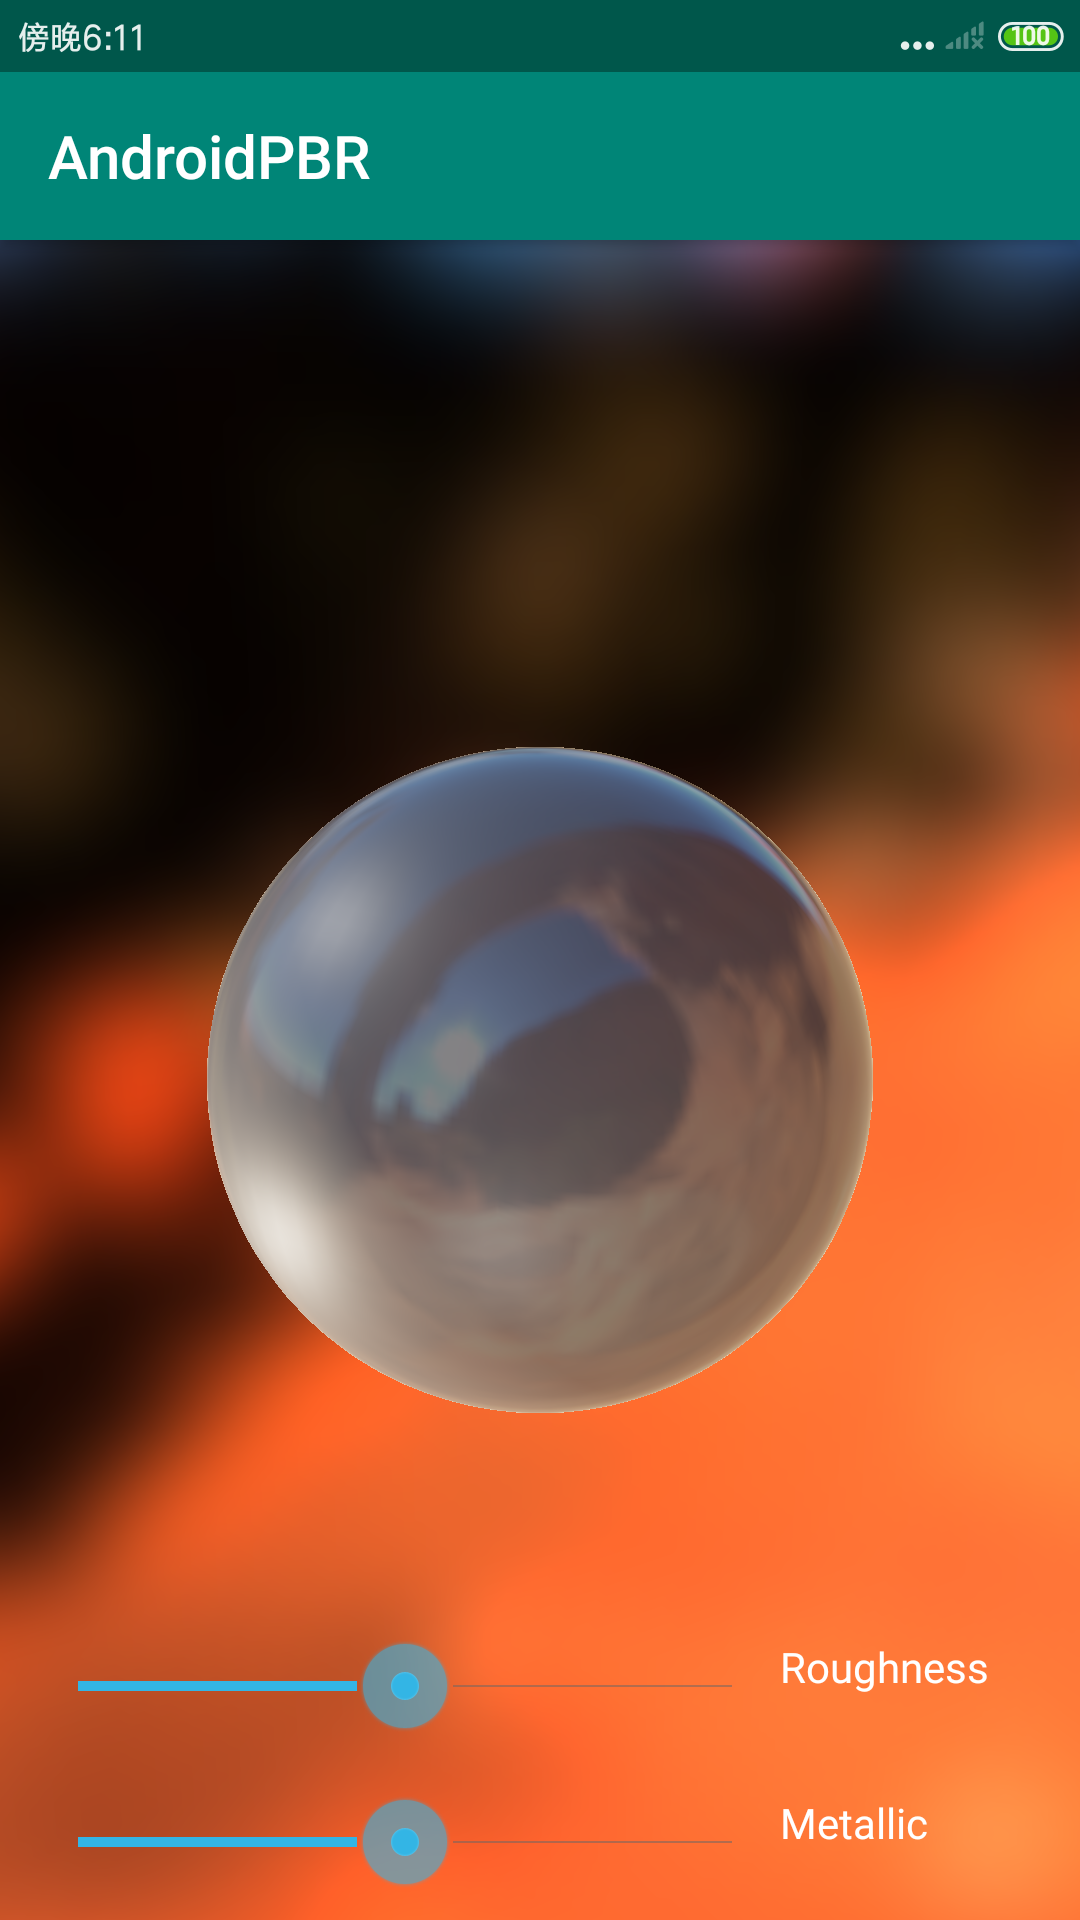
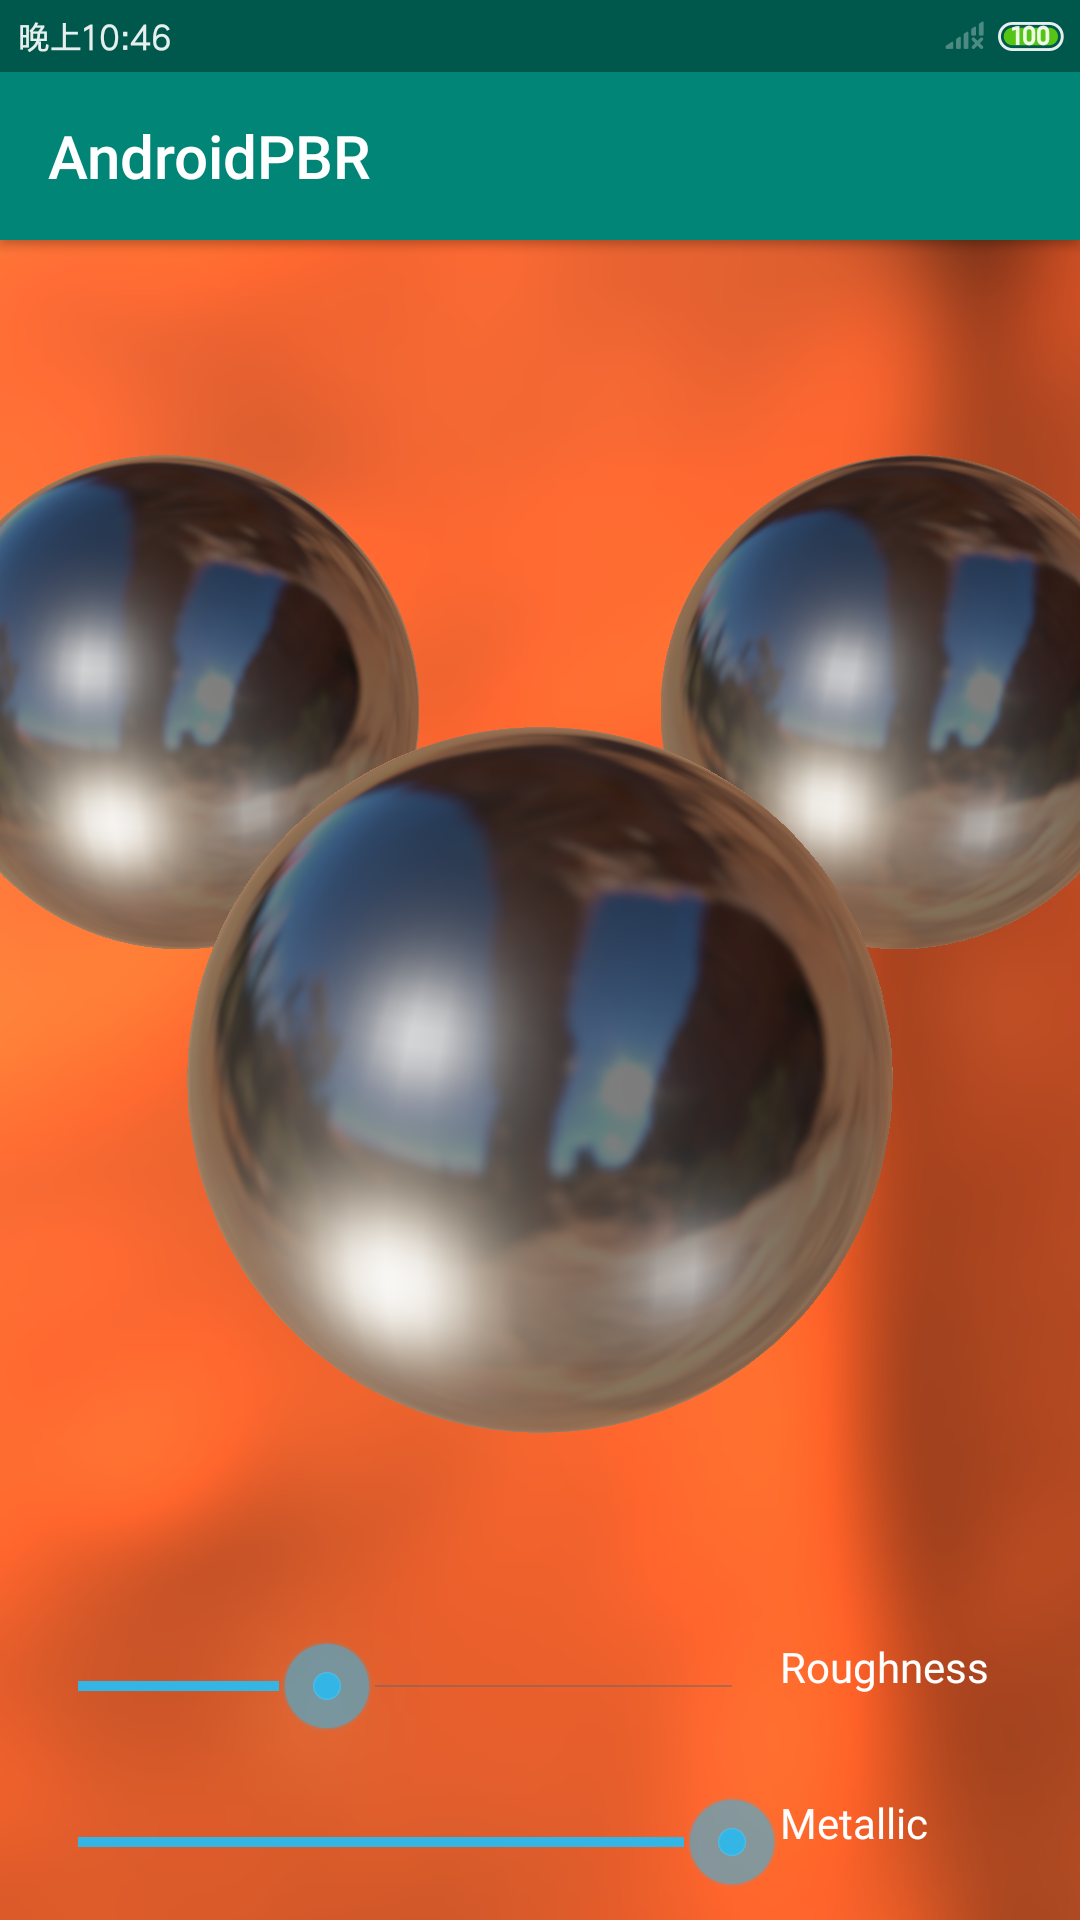
update scene

diff --git a/app/src/main/java/rangarok/com/androidpbr/SceneRenderer.kt b/app/src/main/java/rangarok/com/androidpbr/SceneRenderer.kt
@@ -15,12 +15,10 @@ class SceneRenderer(context: Context) {
 
     private val pbrShader: Shader = Shader(PbrVs, PbrWithSpecularRadianceIBLFAndEnvBrdCalcs)
     private val sphereRenderer = SphereRenderer()
-    private val cubeRenderer = CubeRenderer()
-    private val triangleRenderer = TriangleRenderer()
 
     private val skybox = Skybox().apply { init(context) }
 
-    private val camera = Camera(Vec3(5, 2, 3))
+    private val camera = Camera(Vec3(0, 3, 5))
 
     private var metallic = 0.5f
     private var roughness = 0.5f
@@ -41,7 +39,7 @@ class SceneRenderer(context: Context) {
         val projection = glm.perspective(glm.radians(camera.zoom), sceneWidth/sceneHeight.toFloat(), 0.1f, 200.0f)
         val view = camera.lookAt(Vec3(0))
 
-        drawPBRSphere(projection, view)
+        renderSphereScene(projection, view)
 
         skybox.render(projection, Mat4(Mat3(view)))
 
@@ -51,19 +49,35 @@ class SceneRenderer(context: Context) {
 
     }
 
+    private fun renderSphereScene(projection: Mat4, view: Mat4) {
+        var model = Mat4(1.0)
+        // center sphere
+        drawPBRSphere(projection, view, model)
+
+        // right sphere
+        model = Mat4(1.0f)
+        model.translate(Vec3(1.5, 0.0, -3.0), model)
+        drawPBRSphere(projection, view, model)
+
+        // left sphere
+        model = Mat4(1.0f)
+        model.translate(Vec3(-1.5, 0.0, -3.0), model)
+        drawPBRSphere(projection, view, model)
+    }
+
     fun setMetallic(metallic: Float) {
         if (metallic in 0.0..1.0) {
             this.metallic = metallic
         }
     }
 
-    fun setRougness(roughness: Float) {
+    fun setRoughness(roughness: Float) {
         if (roughness in 0.0..1.0) {
             this.roughness = roughness
         }
     }
 
-    private fun drawPBRSphere(projection: Mat4, view: Mat4) {
+    private fun drawPBRSphere(projection: Mat4, view: Mat4, model: Mat4) {
         Log.i(TAG, "drawPBRSphere, sceneWidth:$sceneWidth, sceneHeight:$sceneHeight")
         pbrShader.enable()
         pbrShader.setVec3("albedo", Vec3(0.5, 0.5, 0.5))
@@ -74,7 +88,6 @@ class SceneRenderer(context: Context) {
         pbrShader.setFloat("metallic", metallic)
         pbrShader.setFloat("roughness", roughness)
         pbrShader.setVec3("ambient", Vec3(0.1, 0.1, 0.1))
-        val model = Mat4(1.0)
         pbrShader.setMat4("model", model)
 
         for (i in 0 until LightPositions.size) {

diff --git a/app/src/main/java/rangarok/com/androidpbr/SurfaceRenderer.kt b/app/src/main/java/rangarok/com/androidpbr/SurfaceRenderer.kt
@@ -36,7 +36,7 @@ class SurfaceRenderer(private val context: Context) : GLSurfaceView.Renderer {
     }
 
     fun setRougness(roughness: Float) {
-        sceneRenderer.setRougness(roughness)
+        sceneRenderer.setRoughness(roughness)
     }
 
     companion object {
